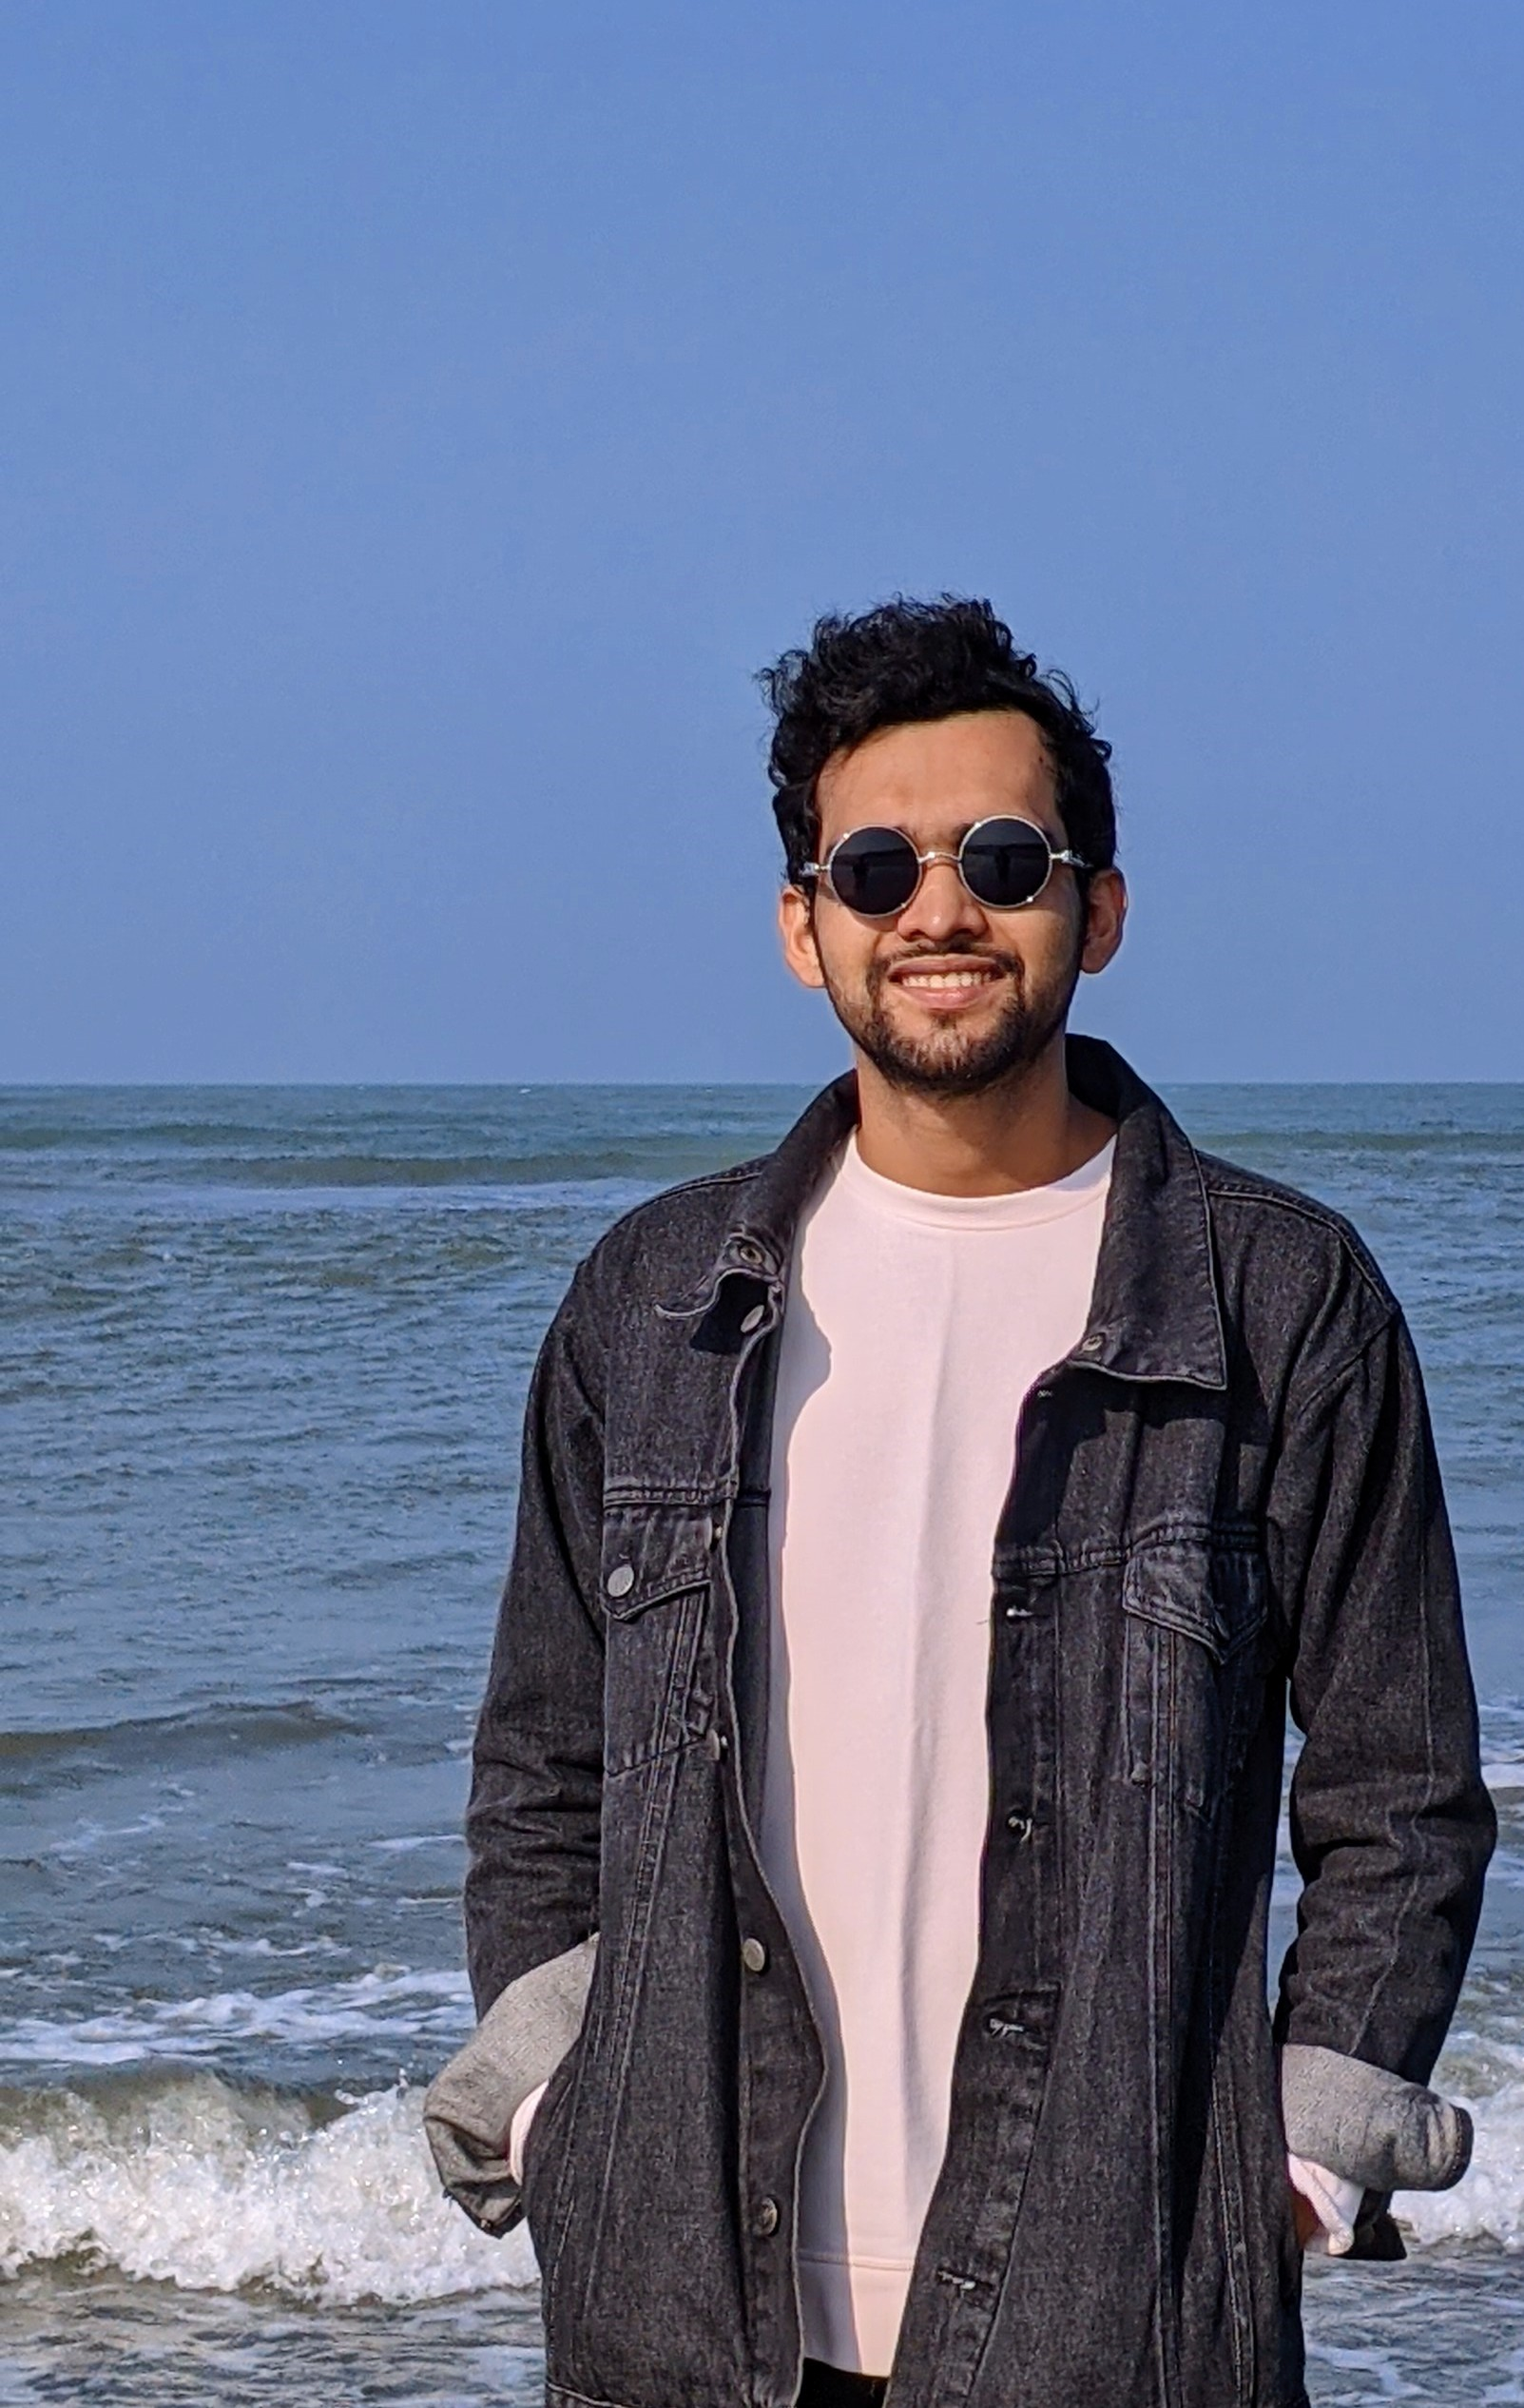
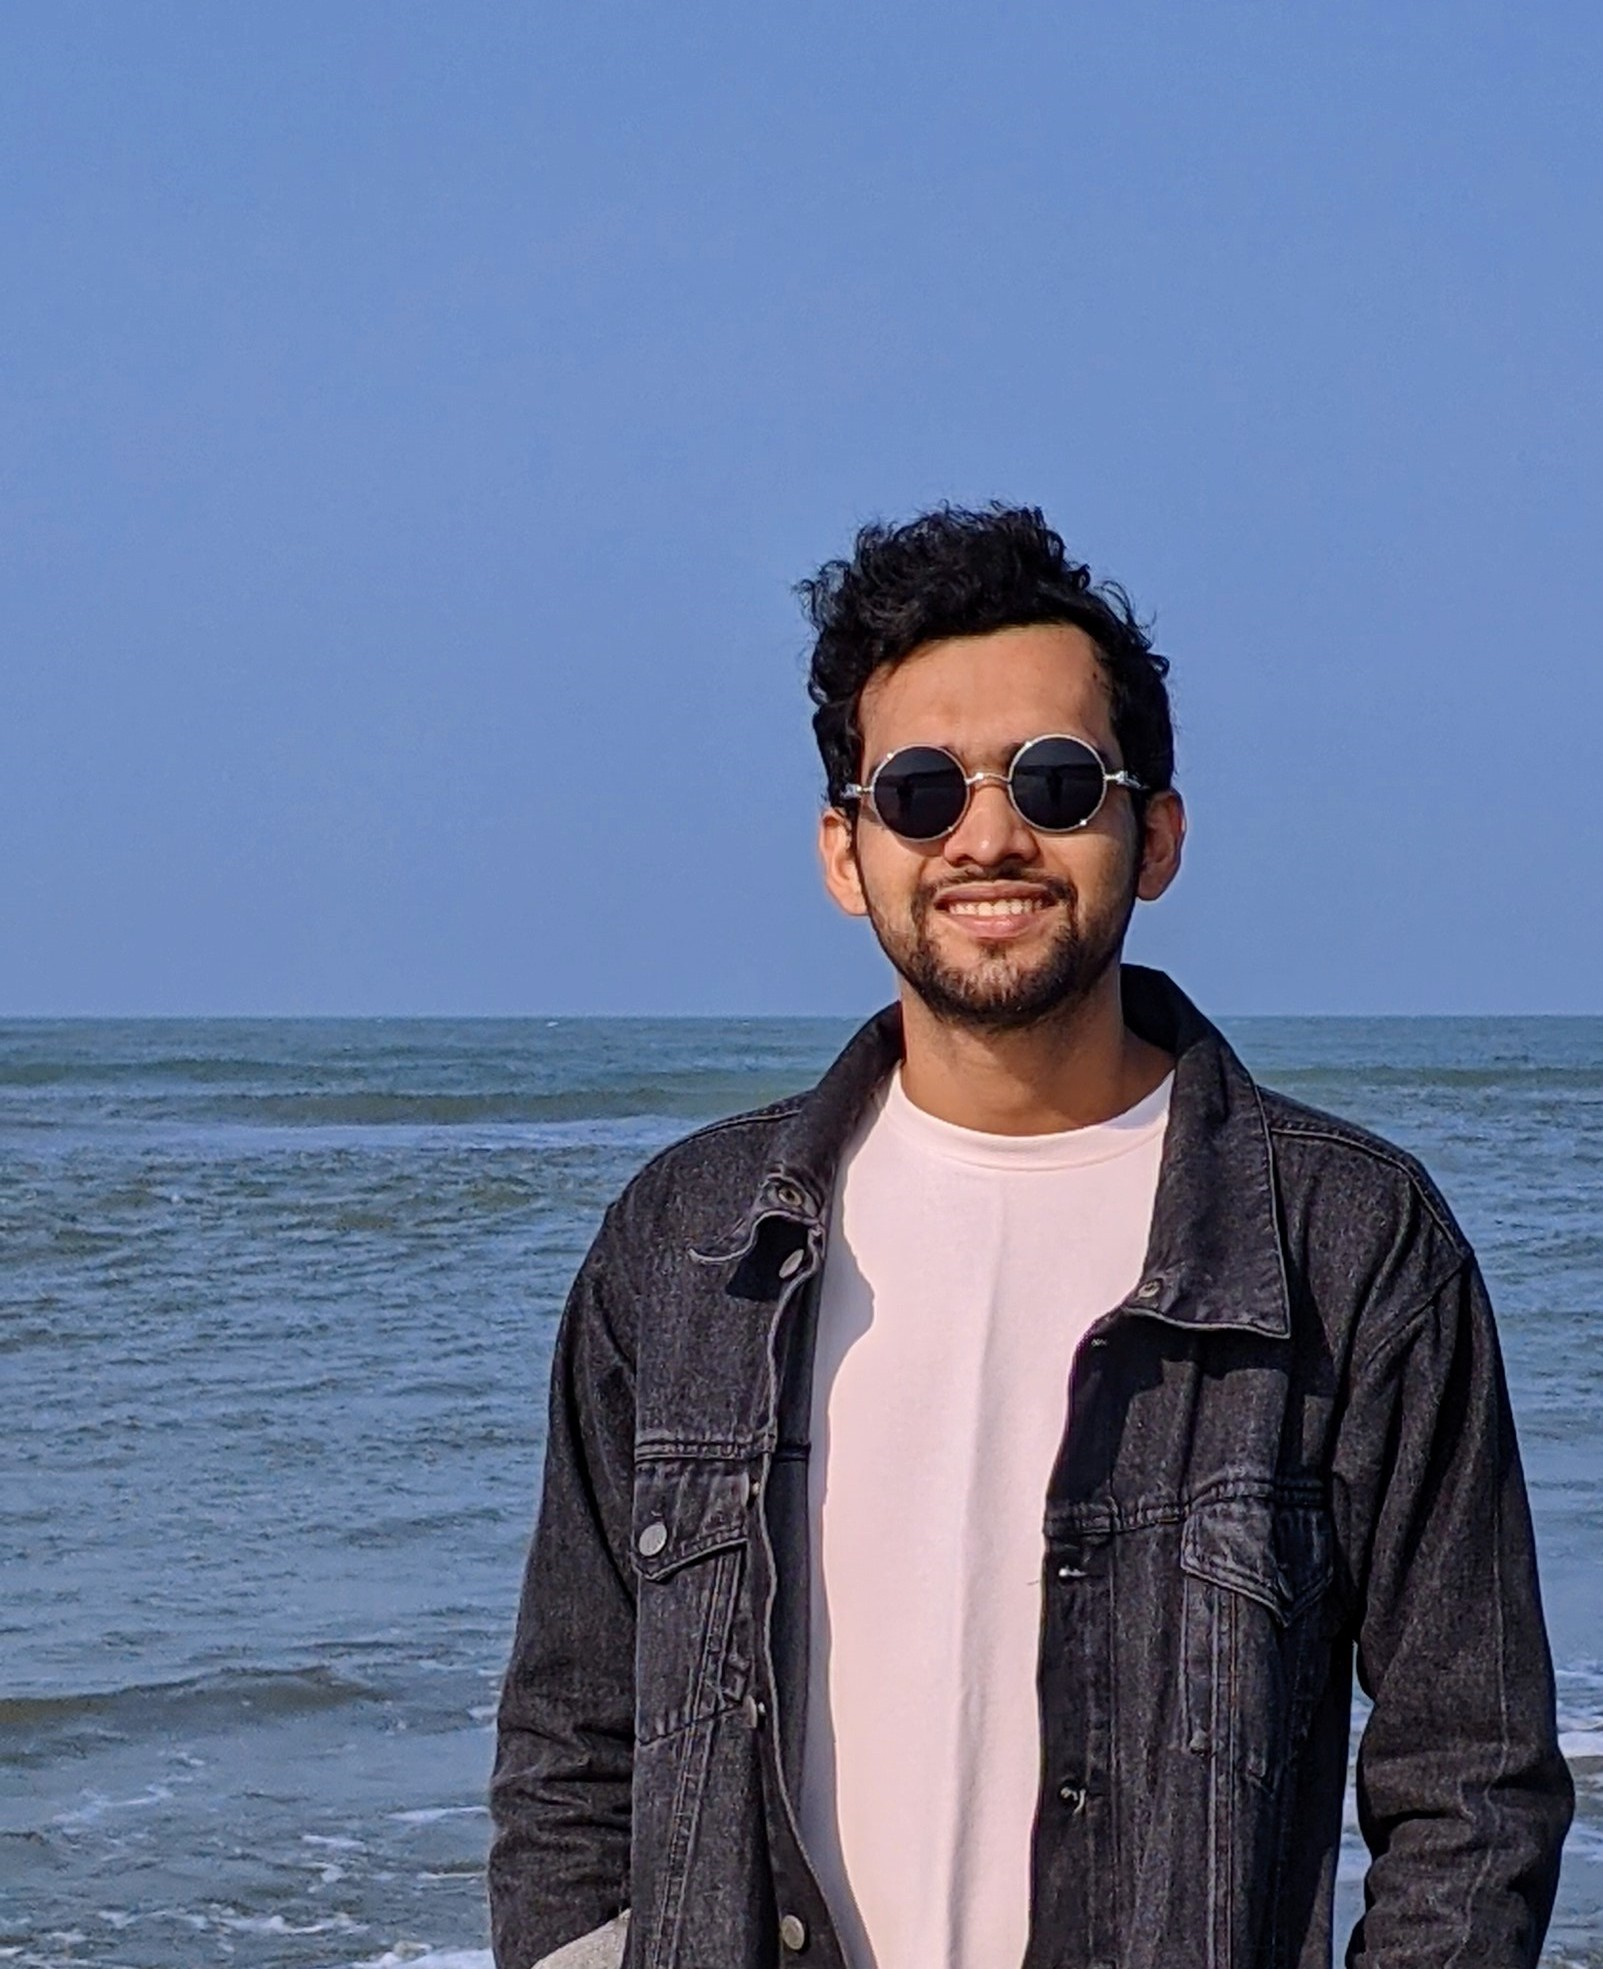
second commit

diff --git a/src/data/site.ts b/src/data/site.ts
@@ -33,7 +33,7 @@ export const site = {
   bio: [
     "I am a Computer Science lecturer at East Delta University in Bangladesh and a prospective PhD student.",
     "My research spans NLP, large language models, and deep learning for computer vision and medical imaging, with a particular focus on reliability, data efficiency, and practical applicability, especially in low-resource and class-imbalanced settings.",
-    "Recently, I have worked on LLM-driven tasks for low-resource languages, and I am developing ideas at the intersection of retrieval-augmented generation and reinforcement learning for trustworthy, evidence-grounded systems.",
+    //"Recently, I have worked on LLM-driven tasks for low-resource languages, and I am developing ideas at the intersection of retrieval-augmented generation and reinforcement learning for trustworthy, evidence-grounded systems.",
     "I am increasingly drawn to scalability and efficiency in AI, including how parallel and high-performance computing can support large-scale models.",
   ],
 
@@ -106,7 +106,7 @@ export const education = [
     // Compact one-liner used on the home page card.
     summary: "CGPA 3.74 / 4.00",
     details: [
-      "Thesis: Automated Tag Recommendation System for Question-Answering Sites — supervised by Dr. Muhammad Ibrahim Khan.",
+      "Thesis: Automated Tag Recommendation System for Question-Answering Sites - supervised by Dr. Muhammad Ibrahim Khan.",
       "CGPA 3.74 / 4.00.",
     ],
   },
@@ -145,8 +145,9 @@ export const testScores = [
 ];
 
 // ---------------------------------------------------------------------------
-// Experience (newest first). Only the FIRST entry (current role) is shown on
-// the home page; full history lives in the Background page's Teaching tab.
+// Experience (newest first) — THE single array for work history.
+//   • Home page card: role / org / period of the FIRST entry.
+//   • Background page → Teaching tab: every entry, with courses + highlights.
 // ---------------------------------------------------------------------------
 export const experience = [
   {
@@ -154,10 +155,10 @@ export const experience = [
     role: "Lecturer",
     period: "May 2023 - Present",
     location: "Chattogram, Bangladesh",
-    points: [
-      "Teaching Data Structures, Algorithms, Compiler Design, and Operating Systems.",
-      "Supervising undergraduate thesis groups in deep learning for disease diagnosis, multimodal learning, and object detection.",
-      "Mentoring student teams in data structures, compiler design, and operating systems projects.",
+    courses: ["Data Structures", "Algorithms", "Compiler Design", "Operating Systems"],
+    highlights: [
+      "Supervising undergraduate thesis groups in deep learning for disease diagnosis, multimodal learning, object detection, and natural language processing.",
+      "Mentoring student teams in data structures, compiler design, operating systems, and web development projects.",
     ],
   },
   {
@@ -165,10 +166,8 @@ export const experience = [
     role: "Lecturer",
     period: "Sep 2022 - May 2023",
     location: "Chattogram, Bangladesh",
-    points: [
-      "Taught Pattern Recognition, Theory of Computing, Computer Graphics, and Discrete Mathematics.",
-      "Mentored student teams on web development and image-processing projects.",
-    ],
+    courses: ["Pattern Recognition", "Theory of Computing", "Computer Graphics", "Discrete Mathematics"],
+    highlights: ["Mentored student teams on web development and image-processing projects."],
   },
 ];
 
@@ -180,29 +179,6 @@ export const skills = [
   { group: "ML & Data Science", items: ["PyTorch", "TensorFlow", "scikit-learn", "NumPy", "Pandas", "Matplotlib"] },
   { group: "Web", items: ["React.js", "Vue.js", "Node.js", "HTML5", "CSS3", "Bootstrap 5"] },
   { group: "Databases & Tools", items: ["MongoDB", "MySQL", "Git", "GitHub"] },
-];
-
-// ---------------------------------------------------------------------------
-// Teaching — grouped by institution, used on the Background page's Teaching tab.
-// ---------------------------------------------------------------------------
-export const teaching = [
-  {
-    institution: "East Delta University",
-    role: "Lecturer",
-    period: "May 2023 - Present",
-    courses: ["Data Structures", "Algorithms", "Compiler Design", "Operating Systems"],
-    highlights: [
-      "Supervising undergraduate thesis groups in deep learning for disease diagnosis, multimodal learning, and object detection.",
-      "Mentoring student teams in data structures, compiler design, and operating systems projects.",
-    ],
-  },
-  {
-    institution: "Port City International University",
-    role: "Lecturer",
-    period: "Sep 2022 - May 2023",
-    courses: ["Pattern Recognition", "Theory of Computing", "Computer Graphics", "Discrete Mathematics"],
-    highlights: ["Mentored student teams on web development and image-processing projects."],
-  },
 ];
 
 // ---------------------------------------------------------------------------
@@ -226,5 +202,8 @@ export const quotes = [
 ];
 
 export const galleryCaptions: Record<string, string> = {
-  // "sajek-2024.jpg": "Sajek Valley, 2024",
+  "01-Nepal_12.jpg": "Annapurna range, Nepal'2024",
+  "04-Sajek.jpg": "Clouds over Sajek Valley, Bangladesh'2017",
+  "03-Dhaka.jpg": "Dhaka cityscape, Bangladesh'2022",
+  "02-St. Martin.jpg":" St. Martin's Island, Bangladesh'2017",
 };

diff --git a/README.md b/README.md
@@ -20,8 +20,8 @@ Publications and reading-list entries live as Markdown files under `src/content/
 ## Editing content
 
 - **`src/data/site.ts`** -- identity, links, nav, news, research interests,
-  education, test scores, experience, projects, skills, teaching, and quotes.
-  Every section of the site is driven from here.
+  education, test scores, experience (jobs + courses + supervision), skills,
+  and quotes. Every section of the site is driven from here.
 - **`src/content/publications/`** -- one `.md` file per paper (frontmatter only).
 - **`src/data/reading.yaml`** -- the whole reading list in one file; adding a
   paper is copy-pasting an 8-line block (template at the top of the file). The

diff --git a/src/content/publications/opg-xray.md b/src/content/publications/opg-xray.md
@@ -9,3 +9,4 @@ links:
   doi: "https://doi.org/10.1109/QPAIN69676.2026.11545613"
   pdf: "https://drive.google.com/file/d/1s8j-jtwGvqdutSCgoBKOjABk2xi2w_Wp/view?usp=drive_link"
 ---
+<!-- # status can be: published | accepted | under-review | in-progress -->